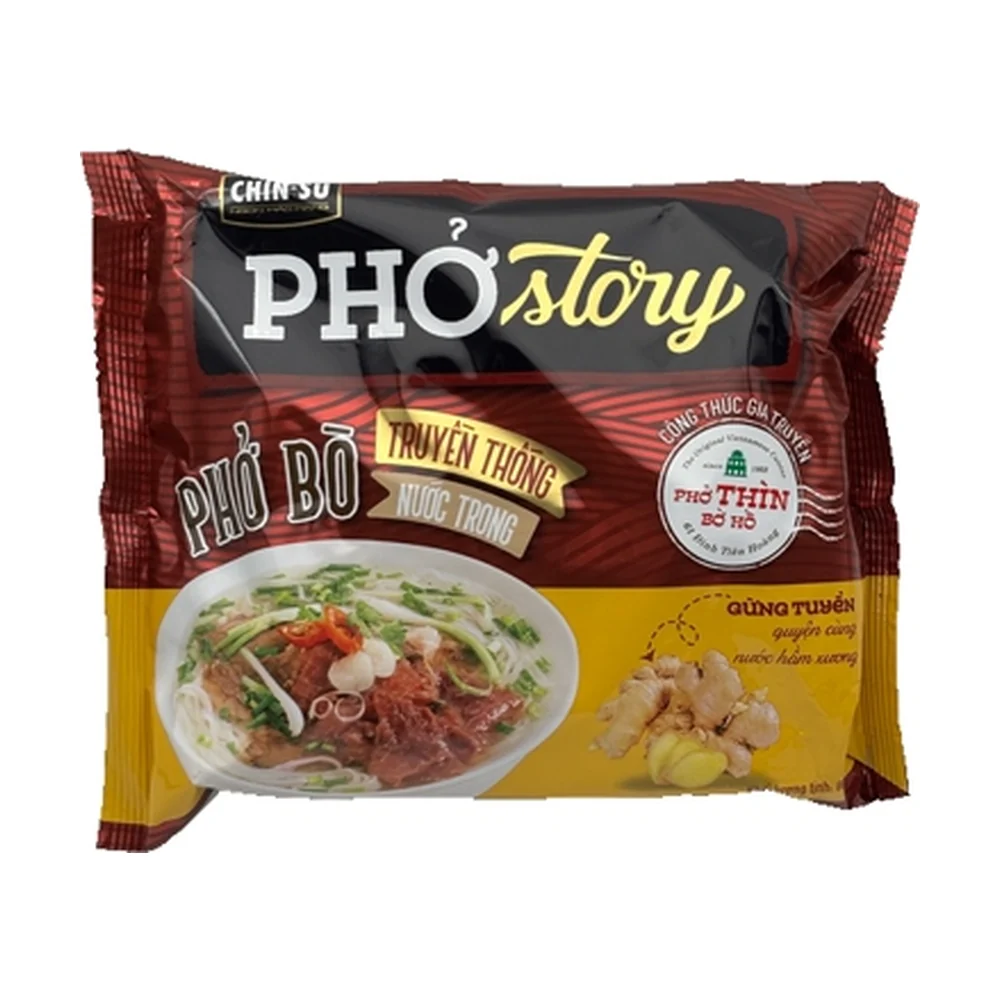
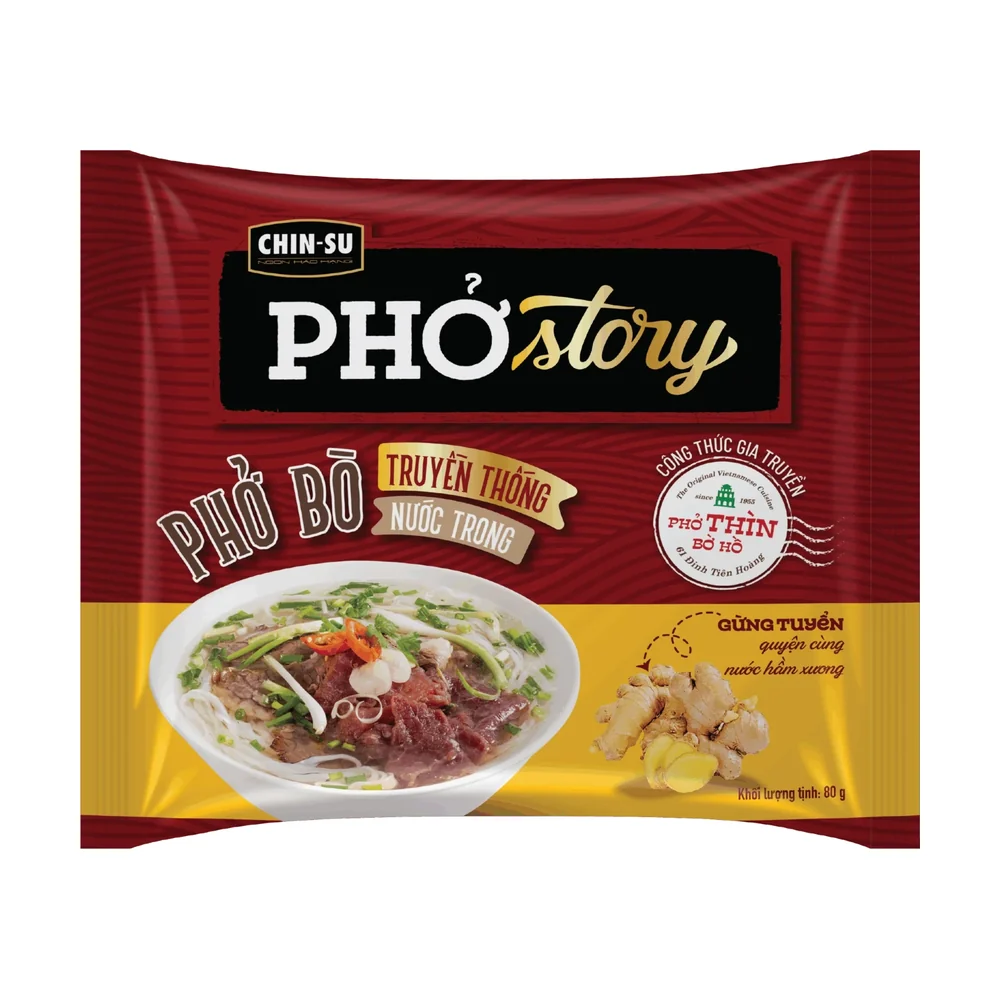
review(2549345-pho-an-lien): Pho Story uses the brand render (80 g)
Claude-Session: https://claude.ai/code/session_01WMj85wQmgde5QuFckyUipF

diff --git a/categories/2549345-pho-an-lien/65184031-pho-bo-story/description.md b/categories/2549345-pho-an-lien/65184031-pho-bo-story/description.md
@@ -1,4 +1,4 @@
 Phở ăn liền Chin-su Phở Story vị phở bò truyền thống nước trong, công thức gia truyền Phở Thìn Bờ Hồ, có gừng quyện cùng nước hầm xương.
 
-Quy cách: gói
+Quy cách: 80 g · gói
 Nhà sản xuất/thương hiệu: Masan Consumer · Chin-su Phở Story
